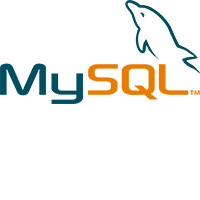
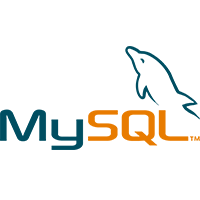
change skill names to images

Changed region(s): [[0.0, 0.0, 1.0, 0.6], [0.0, 0.51, 1.0, 0.75], [0.81, 0.09, 1.0, 0.39]]

diff --git a/public/stylesheets/sass/style.scss b/public/stylesheets/sass/style.scss
@@ -415,6 +415,20 @@ body {
 			>div {
 				.name {
 					font-size: 20px;
+					margin-top: 18px;
+				}
+
+				.skill-icons {
+					margin-top: 15px;
+
+					img {
+						filter: grayscale(100%);
+						transition: 0.3s ease-in-out;
+					}
+
+					a:hover img {
+						filter: grayscale(0%);
+					}
 				}
 			}
 		}
